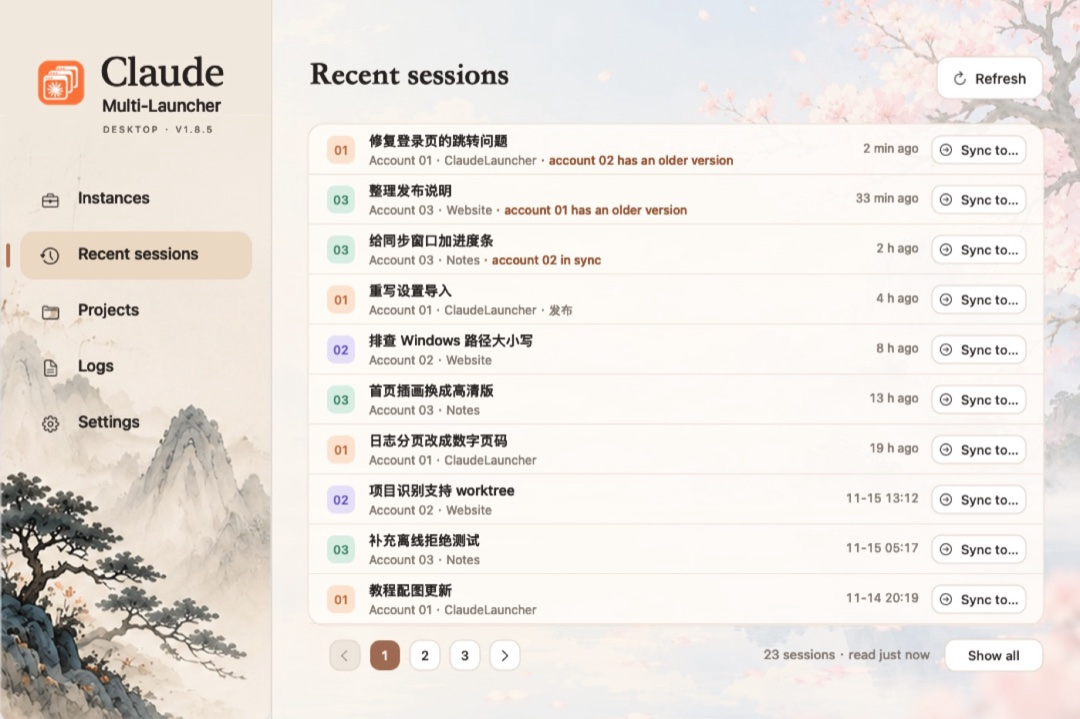
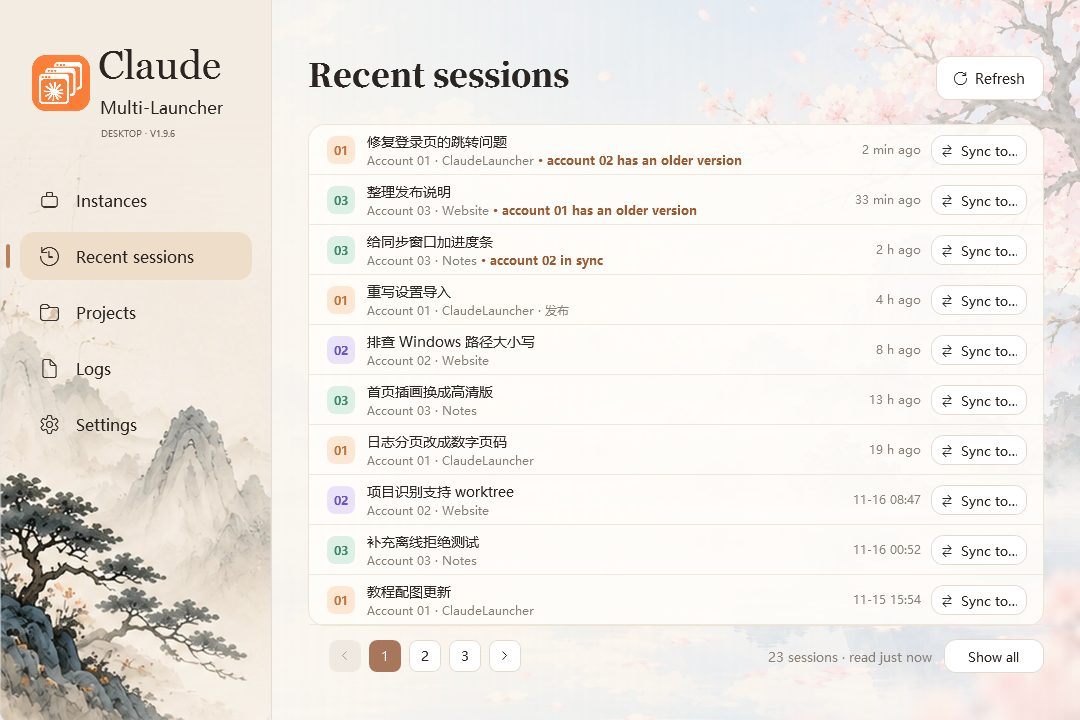
Windows 1.9.6: Recent sessions page replaces usage trend
Brings the Windows side of the macOS 1.8.6 recent-sessions page from
"written but never compiled" to built, tested and checked in the real UI.

Fixes on top of f77ae1b:
- SyncTests still used `now` from the removed UsageTrend checks (CS0103).
- English UI showed Chinese account names, "同步到…" and menu labels:
  rows come from the list template and the target menu is a popup, so
  neither is in the window's logical tree and TranslateTree never reaches
  them. They now translate their own text.
- A page of 10 rows showed a scroll bar: the default ListBox template
  hard-codes 1px padding, leaving room for 9 rows. The list now uses a
  plain ScrollViewer template (still item scrolling and virtualized).

Tests: SyncTests 179, SessionSyncTests 372, TutorialTests 80,
LauncherTests 452, self-test 331 (none fewer than 1.9.5). Added checks
for row rendering, virtualization, no scroll bar, copy labels, refresh
state, English text, restore-to-page reads nothing, VersionAt and
relative-time bounds. Guide pictures regenerated. GUI checked with one
account in Chinese and English; syncing to a second account untested.

diff --git a/windows/tests/SyncTests.cs b/windows/tests/SyncTests.cs
@@ -107,6 +107,48 @@ internal static class SyncTests {
         Check(rows.Zip(rows.Skip(1),(a,b)=>a.Stamp>=b.Stamp).All(x=>x),"newest change first");
         typeof(LauncherUI).GetField("recentPageIndex",flags).SetValue(ui,2); ui.UpdateRecent(); Check(list.Items.Count==3,"last page holds the rest");
         typeof(LauncherUI).GetField("recentAll",flags).SetValue(ui,true); ui.UpdateRecent(); Check(list.Items.Count==23&&pager.Children.Count==0,"show all lists every row without a pager");
+        Check((string)((System.Windows.Controls.Button)get("recentAllButton")).Content=="分页显示","show all offers paging back");
+        // 模板确实生成 50 高的行；“显示全部”只为看得见的行建容器（虚拟化）。
+        var panel=(System.Windows.Controls.Border)get("recentPanel"); panel.Measure(new System.Windows.Size(736,502)); panel.Arrange(new System.Windows.Rect(0,0,736,502));
+        Func<System.Windows.DependencyObject,IEnumerable<System.Windows.DependencyObject>> visuals=null;
+        visuals=node=>new[]{node}.Concat(Enumerable.Range(0,System.Windows.Media.VisualTreeHelper.GetChildrenCount(node)).SelectMany(i=>visuals(System.Windows.Media.VisualTreeHelper.GetChild(node,i))));
+        var first=list.ItemContainerGenerator.ContainerFromIndex(0);
+        Check(first!=null&&visuals(first).OfType<System.Windows.Controls.Canvas>().Any(c=>c.Height==50&&c.Width==734),"row template builds a 50-pixel row");
+        int realized=Enumerable.Range(0,list.Items.Count).Count(i=>list.ItemContainerGenerator.ContainerFromIndex(i)!=null);
+        Check(realized>=10&&realized<23,"show all builds only the visible rows: "+realized);
+        typeof(LauncherUI).GetField("recentAll",flags).SetValue(ui,false); typeof(LauncherUI).GetField("recentPageIndex",flags).SetValue(ui,0); ui.UpdateRecent();
+        var whole=(System.Windows.FrameworkElement)ui.Snapshot(1,new List<Instance>{new Instance{Number=2,ProcessId=111}}); whole.Measure(new System.Windows.Size(1080,720)); whole.Arrange(new System.Windows.Rect(0,0,1080,720)); whole.UpdateLayout();
+        var scroller=visuals(list).OfType<System.Windows.Controls.ScrollViewer>().First();
+        Check(list.Items.Count==10&&scroller.ExtentHeight<=scroller.ViewportHeight&&scroller.ComputedVerticalScrollBarVisibility!=System.Windows.Visibility.Visible,"a page of ten rows fits without a scroll bar: "+scroller.ViewportHeight+"/"+scroller.ExtentHeight);
+        // 每行的文字：来源账号、旧版本／已同步副本、来源分组。
+        var rowOf=typeof(LauncherUI).GetMethod("RecentRow",flags);
+        Func<SyncSessionRow,List<string>> strings=r=>LauncherTests.Children((System.Windows.DependencyObject)rowOf.Invoke(ui,new object[]{r})).SelectMany(d=>{
+            var found=new List<string>{System.Windows.Automation.AutomationProperties.GetName(d)};
+            var block=d as System.Windows.Controls.TextBlock; if(block!=null) found.Add(block.Text);
+            var run=d as System.Windows.Documents.Run; if(run!=null) found.Add(run.Text);
+            var element=d as System.Windows.FrameworkElement; if(element!=null) found.Add(element.ToolTip as string);
+            return found; }).Where(s=>!String.IsNullOrEmpty(s)).ToList();
+        var zh=strings(rows[0]); Check(zh.Contains("最新版本在账号 01")&&zh.Any(s=>s.EndsWith(" · 账号 02 是旧版本")),"row names the newest account and an older copy");
+        Check(strings(rows[2]).Any(s=>s.EndsWith(" · 账号 02 已同步")),"an equal copy reads in sync");
+        Check(strings(rows[3]).Any(s=>s.Contains(" · 发布")),"source sidebar group shown");
+        typeof(LauncherUI).GetField("recentLoading",flags).SetValue(ui,true); ui.UpdateRecent();
+        Check(((System.Windows.Controls.TextBlock)get("recentSummary")).Text=="正在刷新…"&&!((System.Windows.Controls.Button)get("recentRefresh")).IsEnabled
+            &&!LauncherTests.Children((System.Windows.DependencyObject)rowOf.Invoke(ui,new object[]{rows[0]})).OfType<System.Windows.Controls.Button>().Single().IsEnabled,"refreshing keeps rows but disables sync");
+        typeof(LauncherUI).GetField("recentLoading",flags).SetValue(ui,false); ui.UpdateRecent();
+        // 英文界面：行和菜单不在窗口逻辑树里，不能留中文（会话标题和项目名是用户内容，这里用英文）。
+        Appearance.Language=1;
+        try {
+            long stamp=now.AddMinutes(-3).Ticks;
+            var english=new SyncSessionRow { Path="demo",Id="e",Title="Fix login",ProjectPath=@"C:\Users\example\Projects\Website",ProjectName="Website",Modified=now.AddMinutes(-3),Stamp=stamp,Account=1,Linked=true,
+                Versions=new Dictionary<int,SyncVersion>{{1,new SyncVersion{Id="e",Stamp=stamp}},{2,new SyncVersion{Id="f",Stamp=stamp-1}},{3,new SyncVersion{Id="g",Stamp=stamp}}} };
+            ui.UpdateRecent();
+            var shown=strings(english);
+            foreach(System.Windows.Controls.MenuItem item in ui.RecentTargetMenu(english).Items) { var header=item.Header as System.Windows.Controls.TextBlock; shown.Add(header!=null?header.Text:(string)item.Header); }
+            shown.Add(((System.Windows.Controls.TextBlock)get("recentSummary")).Text); shown.Add((string)((System.Windows.Controls.Button)get("recentAllButton")).Content);
+            var chinese=shown.Where(s=>System.Text.RegularExpressions.Regex.IsMatch(s,"[\u3000-\u303f\u4e00-\u9fff\uff00-\uffef]")).ToList();
+            Check(chinese.Count==0,"English recent page has no Chinese: "+String.Join(" | ",chinese));
+            Check(shown.Contains("Newest version is in Account 01")&&shown.Any(s=>s.EndsWith("account 02 has an older version, account 03 in sync"))&&shown.Contains("Account 02 · running, quit it first")&&shown.Contains("23 sessions · read just now"),"English row, menu and summary: "+String.Join(" | ",shown));
+        } finally { Appearance.Language=0; }
         Func<int,List<System.Windows.Controls.MenuItem>> menu=i=>ui.RecentTargetMenu(rows[i]).Items.Cast<System.Windows.Controls.MenuItem>().ToList();
         var m=menu(0); Check(m.Count==4&&!m[0].IsEnabled&&!m[1].IsEnabled&&!m[2].IsEnabled&&m[3].IsEnabled&&(int)m[3].Tag==3,"target menu: source and running disabled, new enabled");
         m=menu(1); Check(m[1].IsEnabled&&!m[3].IsEnabled,"an older copy can be replaced; the source cannot");
@@ -164,7 +206,7 @@ internal static class SyncTests {
             File.WriteAllText(list,"{broken");Check(Projects.Load(list).Count==0&&!File.Exists(list)&&Directory.GetFiles(root,"projects.json.corrupt-*").Length==1,"corrupt project file retained");
             var ui=new LauncherUI(new LauncherSettings(),Path.Combine(root,"ui-settings.json"));
             var flags=BindingFlags.NonPublic|BindingFlags.Instance;
-            var logs=(List<LogEntry>)typeof(LauncherUI).GetField("logs",flags).GetValue(ui);logs.Clear();logs.Add(new LogEntry { At=now,Time="fixture",Level="信息",Instance="系统",Text="fixture" });
+            var logs=(List<LogEntry>)typeof(LauncherUI).GetField("logs",flags).GetValue(ui);logs.Clear();logs.Add(new LogEntry { At=DateTime.UtcNow,Time="fixture",Level="信息",Instance="系统",Text="fixture" });
             string log=Path.Combine(root,"launcher-log.json");File.WriteAllText(log,"[]");string logAlias=log+".hard";Check(CreateHardLink(logAlias,log,IntPtr.Zero),"log hard-link fixture");
             Check(!ui.ClearStoredLogs()&&logs.Count==1&&File.ReadAllText(log)=="[]","failed clear preserves memory and disk");File.Delete(logAlias);Check(ui.ClearStoredLogs()&&logs.Count==0,"successful clear commits disk first");
             var progressA=ui.BuildUpdateProgress("2.0.0");int generationA=ui.BeginUpdateTask();ui.CancelUpdateTask(generationA,progressA,"fixture");

diff --git a/windows/src/LauncherUI.cs b/windows/src/LauncherUI.cs
@@ -1961,8 +1961,13 @@ namespace ClaudeLauncher {
             var itemStyle = new Style(typeof(ListBoxItem));
             itemStyle.Setters.Add(new Setter(Control.TemplateProperty, new ControlTemplate(typeof(ListBoxItem)) { VisualTree = new FrameworkElementFactory(typeof(ContentPresenter)) }));
             itemStyle.Setters.Add(new Setter(UIElement.FocusableProperty, false));
-            recentList = new ListBox { ItemTemplate = new DataTemplate { VisualTree = row }, ItemContainerStyle = itemStyle, BorderThickness = new Thickness(0), Background = Brushes.Transparent, Margin = new Thickness(0, 0, 0, 1) };
-            ScrollViewer.SetHorizontalScrollBarVisibility(recentList, ScrollBarVisibility.Disabled); VirtualizingStackPanel.SetIsVirtualizing(recentList, true);
+            recentList = new ListBox { ItemTemplate = new DataTemplate { VisualTree = row }, ItemContainerStyle = itemStyle, BorderThickness = new Thickness(0), Background = Brushes.Transparent }; // 10 行正好 500，等于面板内高，分页时不出滚动条。
+            // 系统默认模板的外框写死 1 像素内边距，10 行放不下会出滚动条；只留滚动区，按行滚动以便虚拟化。
+            var scroller = new FrameworkElementFactory(typeof(ScrollViewer));
+            scroller.SetValue(ScrollViewer.HorizontalScrollBarVisibilityProperty, ScrollBarVisibility.Disabled); scroller.SetValue(ScrollViewer.CanContentScrollProperty, true); scroller.SetValue(UIElement.FocusableProperty, false);
+            scroller.AppendChild(new FrameworkElementFactory(typeof(ItemsPresenter)));
+            recentList.Template = new ControlTemplate(typeof(ListBox)) { VisualTree = scroller };
+            VirtualizingStackPanel.SetIsVirtualizing(recentList, true);
             AutomationProperties.SetName(recentList, Appearance.Text("最近会话")); AutomationProperties.SetAutomationId(recentList, "RecentList");
             panel.Child = recentList; recentPanel = panel;
             recentEmpty = At(recentPage, T("", 14, "#8A8178", FontWeights.Normal), 76, 320, 656); recentEmpty.TextAlignment = TextAlignment.Center; recentEmpty.TextWrapping = TextWrapping.Wrap;
@@ -2022,13 +2027,14 @@ namespace ClaudeLauncher {
             var row = new Canvas { Width = 734, Height = 50, Background = Brushes.Transparent };
             At(row, new Rectangle { Fill = B("#EFE7DC") }, 0, 49, 734, 1);
             string[] tone = Palette[(session.Account - 1) % 4];
-            string where = Appearance.Text("最新版本在" + DisplayName(session.Account));
+            // 行由列表模板生成、菜单是弹出层，都不在窗口逻辑树里，界面翻译走不到，这里的文字要自己翻译。
+            string where = Appearance.Text("最新版本在%@").Replace("%@", Appearance.Text(DisplayName(session.Account)));
             var badge = At(row, new Border { CornerRadius = new CornerRadius(8), Background = B(tone[0]), ToolTip = where }, 18, 11, 28, 28);
             badge.Child = new TextBlock { Text = Two(session.Account), FontSize = 12, FontWeight = FontWeights.SemiBold, Foreground = B(tone[1]), HorizontalAlignment = HorizontalAlignment.Center, VerticalAlignment = VerticalAlignment.Center };
             AutomationProperties.SetName(badge, where);
             var title = At(row, T(session.Title, 14, Ink, FontWeights.Medium), 58, 6, 450); title.ToolTip = session.Title;
             // 账号、项目、来源侧栏分组，再写关联副本的位置：这一行总是最新的那份。
-            var parts = new List<string> { DisplayName(session.Account), session.ProjectName ?? IOPath.GetFileName(session.ProjectPath) };
+            var parts = new List<string> { Appearance.Text(DisplayName(session.Account)),session.ProjectName ?? IOPath.GetFileName(session.ProjectPath) };
             if (session.Group != null) parts.Add(session.Group);
             var copies = session.Versions.Keys.Where(n => n != session.Account).OrderBy(n => n)
                 .Select(n => Appearance.Text("账号 " + Two(n) + (SessionSync.VersionAt(session, n) == 2 ? " 已同步" : " 是旧版本"))).ToList();
@@ -2037,7 +2043,7 @@ namespace ClaudeLauncher {
             if (copies.Count > 0) detail.Inlines.Add(new System.Windows.Documents.Run(" · " + String.Join(Appearance.Text("，"), copies)) { Foreground = B("#9A5A32"), FontWeight = FontWeights.SemiBold });
             var time = At(row, T(RecentAge(session.Modified, DateTime.Now), 12, "#8A8178", FontWeights.Normal), 512, 16, 100);
             time.TextAlignment = TextAlignment.Right; time.ToolTip = Appearance.Text("最后修改：" + session.Modified.ToString("yyyy-MM-dd HH:mm:ss"));
-            var sync = At(row, Action("同步到…", "Btn", "", 13), 622, 10, 96, 30);
+            var sync = At(row, Action(Appearance.Text("同步到…"), "Btn", "", 13), 622, 10, 96, 30);
             sync.IsEnabled = !recentLoading && !syncingSessions; AutomationProperties.SetName(sync, Appearance.Text("把「" + session.Title + "」同步到其他账号"));
             sync.Click += async delegate {
                 await ScanNow(); // 当前运行状态，和同步窗口一样。
@@ -2052,7 +2058,7 @@ namespace ClaudeLauncher {
             foreach (int n in recentAccounts) {
                 int held = SessionSync.VersionAt(session, n); bool running = instances.Any(x => x.Number == n);
                 string state = held == 2 ? (n == session.Account ? "来源" : "已是最新") : running ? "运行中，请先退出" : held == 1 ? "有更新，替换旧版本" : "新增副本";
-                var item = new MenuItem { Header = new TextBlock { Text = DisplayName(n) + " · " + Appearance.Text(state) }, IsEnabled = held != 2 && !running, Tag = n };
+                var item = new MenuItem { Header = new TextBlock { Text = Appearance.Text(DisplayName(n)) + " · " + Appearance.Text(state) }, IsEnabled = held != 2 && !running, Tag = n };
                 int target = n; item.Click += async delegate { await RecentSync(session, target); };
                 menu.Items.Add(item);
             }

diff --git a/windows/src/Storage.cs b/windows/src/Storage.cs
@@ -252,6 +252,11 @@ namespace ClaudeLauncher {
             const string app = @"""C:\Program Files\WindowsApps\Claude_4.29.0.0_x64__pzs8sxrjxfjjc\app\claude.exe""";
             try {
                 Directory.CreateDirectory(root);
+                // 最近会话页：目标菜单按版本判断可否同步；相对时间的分界与 macOS 相同。
+                var merged = new SyncSessionRow { Stamp = 10, Versions = new Dictionary<int, SyncVersion> { { 1, new SyncVersion { Stamp = 10 } }, { 2, new SyncVersion { Stamp = 9 } }, { 3, new SyncVersion { Stamp = 10 } } } };
+                Check(SessionSync.VersionAt(merged, 1) == 2 && SessionSync.VersionAt(merged, 2) == 1 && SessionSync.VersionAt(merged, 3) == 2 && SessionSync.VersionAt(merged, 4) == 0, "最近会话版本判断");
+                DateTime clock = new DateTime(2026, 11, 17, 12, 0, 0);
+                Check(LauncherUI.RecentAge(clock.AddSeconds(-59), clock) == "刚刚" && LauncherUI.RecentAge(clock.AddSeconds(-60), clock) == "1 分钟前" && LauncherUI.RecentAge(clock.AddHours(-23.9), clock) == "23 小时前" && LauncherUI.RecentAge(clock.AddDays(-1), clock) == "11-16 12:00" && LauncherUI.RecentAge(clock.AddMinutes(5), clock) == "刚刚", "最近会话相对时间");
                 var me = WindowsIdentity.GetCurrent();
                 Check(Storage.OwnedByMe(me.User) && Storage.OwnedByMe(me.Owner) && Storage.OwnedByMe(new SecurityIdentifier(WellKnownSidType.BuiltinAdministratorsSid, null)) && !Storage.OwnedByMe(new SecurityIdentifier(WellKnownSidType.LocalSystemSid, null)) && !Storage.OwnedByMe(null), "所有者判断错误");
                 UpdateChecks(root);

diff --git a/windows/tests/LauncherTests.cs b/windows/tests/LauncherTests.cs
@@ -217,6 +217,12 @@ public static class LauncherTests {
             typeof(LauncherUI).GetMethod("RecordUse", flags).Invoke(alerts, new object[] { 2 });
             var recentReload = new LauncherUI(new LauncherSettings(), preferences); recentReload.Snapshot(0, new List<Instance>());
             Check((string)typeof(LauncherUI).GetMethod("Recent", flags).Invoke(recentReload, new object[] { 2 }) != "—", "Recent usage persists");
+            // 旧值 accounts（原用量趋势页）恢复到最近会话页；启动时恢复不读取会话，只显示加载按钮。
+            LauncherSettings.WriteLastPage(Path.Combine(root, "last-page"), "accounts");
+            var restored = new LauncherUI(new LauncherSettings { RememberPage = true }, preferences);
+            Check((int)typeof(LauncherUI).GetField("page", flags).GetValue(restored) == 1, "Remembered accounts page opens recent sessions");
+            Check(typeof(LauncherUI).GetField("recentSessions", flags).GetValue(restored) == null && ((Button)typeof(LauncherUI).GetField("recentLoad", flags).GetValue(restored)).Visibility == Visibility.Visible, "Restoring to recent sessions reads nothing and offers the load button");
+            File.Delete(Path.Combine(root, "last-page"));
             string file = Path.Combine(root, "CLAUDE.md");
             Check(Handoff.Append(root) && File.ReadAllText(file) == Handoff.Rule, "Handoff creates exact rule");
             Check(!Handoff.Append(root) && File.ReadAllText(file) == Handoff.Rule, "Handoff deduplicates");

diff --git a/windows/src/Updates.cs b/windows/src/Updates.cs
@@ -14,8 +14,8 @@ using System.Text.RegularExpressions;
 using System.Threading;
 using System.Web.Script.Serialization;
 
-[assembly: AssemblyVersion("1.9.5.0")]
-[assembly: AssemblyFileVersion("1.9.5.0")]
+[assembly: AssemblyVersion("1.9.6.0")]
+[assembly: AssemblyFileVersion("1.9.6.0")]
 // csc 直接编译时没有目标框架声明，运行时会退回旧路径规则（拒绝超过 260 字符的路径）；Claude 的缓存目录常超过此长度。
 [assembly: System.Runtime.Versioning.TargetFramework(".NETFramework,Version=v4.8", FrameworkDisplayName = ".NET Framework 4.8")]
 namespace ClaudeLauncher {
@@ -31,8 +31,8 @@ namespace ClaudeLauncher {
     }
 
     public static class Updates {
-        public const string Version = "1.9.5.0";
-        public const string DisplayVersion = "1.9.5";
+        public const string Version = "1.9.6.0";
+        public const string DisplayVersion = "1.9.6";
         public const string GitHubBase = "https://github.com/wyl20020808/ClaudeLauncher/releases/latest/download/";
         public const string ReleasesPage = "https://github.com/wyl20020808/ClaudeLauncher/releases";
         public const long SizeLimit = 50L * 1024 * 1024;

diff --git a/docs/STATUS.md b/docs/STATUS.md
@@ -1,6 +1,17 @@
 # 项目状态
 
-## macOS 1.8.6：最近会话页取代用量趋势页（2026-11-16，两端；macOS 已发布，Windows 未编译）
+## Windows 1.9.6：最近会话页（2026-11-17，dev，未提交、未发布）
+
+- 内容：跟上 macOS 1.8.6 的最近会话页（代码见 `f77ae1b`），发布说明见 [RELEASE-windows-1.9.6](RELEASE-windows-1.9.6.md)，核对结论见 [HANDOFF-windows-recent-sessions](HANDOFF-windows-recent-sessions.md) 文首。
+- 修复（相对 `f77ae1b` 的 Windows 代码）：① `SyncTests` 引用已删除的 `now`，测试程序编译失败；② 英文界面下行内和菜单的账号名、“同步到…”按钮仍是中文（行和菜单不在窗口逻辑树里，整体翻译走不到）；③ 一页 10 行时出滚动条（默认 ListBox 模板写死 1 像素内边距）。②③ 都先写测试复现失败再修。
+- 补测试：模板生成 50 高的行、显示全部只生成可见行、10 行无滚动条、副本说明与分组、刷新中停用同步、英文界面无中文；启动恢复到最近会话页（旧值 `accounts`）不读取；自检加 `VersionAt` 与相对时间分界。
+- 自检（`build.ps1`，本机）：LauncherTests 452、SyncTests 179、SessionSyncTests 372、TutorialTests 80、自检 331，均不少于 1.9.5（452／175／372／80／330，同机重跑）；`test-install.ps1` 3 个场景通过。编译警告 2 条与 1.9.5 相同。
+- 离屏 UI：`preview-ui.ps1` 生成 `recent.png`、`recent-unloaded.png`，面板 36,124,736×502、行高 50、刷新 664,56、页码 y640、显示全部 672,639，与 macOS 一致；`guide-recent.{zh,en}.jpg` 用 `UiPreview.exe --guide` 重新生成（英文配图示例标题为中文，与 macOS 相同）。
+- GUI 手动测试（2026-11-17，开发版 `artifacts\bin\ClaudeLauncher.exe`，本机只有账号 01）：① 通过——点侧栏“最近会话”读取 54 条，当前正在用的会话排第一、写“刚刚”，页码 `1 2 … 6`，“显示全部”可滚动、按钮变“分页显示”；行内“同步到…”菜单为标题行加“gshh · 01 · 来源”。英文界面（临时改启动器自己的 `settings.json` 语言，看完恢复原文件）：行、摘要“54 sessions · read just now”、“Sync to…”、菜单“Sync to (the target must have quit normally)”“gshh · 01 · source”均为英文，会话标题是用户原文。`settings.json.usageTrend` 修改时间仍为 10-31，未被读写。② 同步到另一账号、③ 运行中／有更新／替换进回收站：**未验证**（用户没有其他账号，2026-11-17 决定跳过）。观察：启动器窗口不在前台时点“同步到…”，菜单要等窗口回到前台才显示。
+- 开发版检查更新时日志记 `update_select version=1.9.5`，随后 `IsNewer` 判断不提示，属正常。测试中开发版以“关闭到托盘”方式隐藏，最后结束了这个开发版进程（只此一个，非 Claude）。
+- 版本号 1.9.6（程序集 1.9.6.0）；`updates/public/*.json` 待发布时生成。
+
+## macOS 1.8.6：最近会话页取代用量趋势页（2026-11-16，两端；macOS 已发布，Windows 见上方 1.9.6）
 
 - 发布（用户 2026-11-17 要求）：`macos-v1.8.6`（目标 dev `f77ae1b`，未合并 main），版本号 1.8.6（build 37），发布说明见 [RELEASE-macos-1.8.6](RELEASE-macos-1.8.6.md)。提交前变基到远端 Windows 1.9.5（`18b272f`）之后，STATUS 与使用说明冲突两边都保留。固定证书构建，arm64／x86_64 `--self-test` 与 `--ui-self-test` 通过，`scripts/publish-macos.sh --dry-run` 通过后正式运行，草稿 API 核对、转 Latest、latest/download 复核全部通过；DMG `ClaudeLauncher-1.8.6.dmg`（9076958 字节，SHA-256 `61166109…ffafff60`），Windows 文件沿用 `ClaudeLauncherSetup-1.9.5.exe`。/Applications 中的安装版需用户自行用新 DMG 更新。
 

diff --git a/windows/docs/USER_GUIDE.md b/windows/docs/USER_GUIDE.md
@@ -1,5 +1,12 @@
 # Claude 多开启动器 1.9 使用说明（Windows）
 
+## 1.9.6 最近会话
+
+- 侧栏第二页“用量趋势”换成“最近会话”：各账号的会话按修改时间排在一起，最新的在最上面；每行显示账号、标题、项目、来源分组和时间，已同步过的副本写在说明末尾。每页 10 条，可“显示全部”。
+- 点一行的“同步到…”，选目标账号，就进入和同步窗口相同的预览和确认；运行中的账号和已是最新的账号不能选，目标须先正常退出。替换下来的旧版本进回收站，第一条消息由你发送。
+- 只在你点进这一页、点“刷新”或从这一页同步完成后读取；启动时恢复到这一页只显示“加载最近会话”按钮。不读对话正文，结果不保存。
+- 用量趋势停止记录，以前的趋势数据保留不动；用量圆环和用量提醒不变。下方“用量趋势”相关的旧说明不再适用。
+
 ## 1.9.4 修复
 
 - 账号的 Code 配置里，skills 如果是用目录联接（`mklink /J`）装的、指向 `~/.claude/skills`，启动时不再报“账号存储隔离检查未通过：仅支持普通符号链接”。联接指向账号数据、用户主目录等受保护位置时仍会提示。
@@ -112,9 +119,9 @@
 
 背景插画已重新生成，使用1960×310无损PNG横幅，比例与卡片一致，整卡显示图案。限额圆环紧邻名字右侧、垂直居中，圆内透明。左侧信息区使用从100%不透明向右渐变到0%的白底，右侧展示清晰插画；有无用量都保留相同插画效果。
 
-## 用量趋势
+## 最近会话
 
-- 侧栏“用量趋势”直接显示各账号近七天的用量曲线、当前观察值和轮换建议。
+- 侧栏“最近会话”列出各账号的会话（1.9.6 起取代原“用量趋势”页），说明见文首“1.9.6 最近会话”。
 - 原账号表格、搜索筛选、别名编辑、路径批量复制及配置同步入口已移除。已有别名继续用于卡片显示。
 - “系统设置 → 关于 → 查看教程”可重新播放引导或阅读文档。
 
@@ -182,7 +189,7 @@ Windows 11 标题栏和窗口边框随启动器深浅主题统一配色。
 ## Windows 1.7.16 功能同步待验收版
 
 设置切换立即保存。通知分类可选择五小时用量提醒（关闭／70／80／90，默认 80）并启用全局快捷键。用量只来自你主动查看时已显示的本地界面，不代表实时剩余额度；提醒只说明该账号的用量，不推荐其他账号（1.9.2 起）。
-实例卡片可直接启动或打开账号，用量趋势页独立展示历史曲线。窗口内 Ctrl+1～9、Ctrl+0 打开已有账号；全局 Ctrl+Alt+1～0 默认关闭，冲突会提示。
+实例卡片可直接启动或打开账号，最近会话页列出各账号的会话（1.9.6 前为用量趋势页）。窗口内 Ctrl+1～9、Ctrl+0 打开已有账号；全局 Ctrl+Alt+1～0 默认关闭，冲突会提示。
 数据与存储的「导入设置」先显示变化，确认才生效；无效项保留当前设置，不导入账号或凭据。
 项目管理可添加本地项目目录。「···」提供追加 CLAUDE.md 交接规则、复制写 HANDOFF.md 指令、交接给其他账号。只追加规则；已有标记不重复写入。接手指令只复制到剪贴板，请自行粘贴发送。同一项目请轮流使用，启动器不负责文件冲突或自动发送消息。
 关闭 Claude 后卡片保留上次用量并标注「Claude 未运行 · 上次记录」。提醒按账号持久去重，重启不会重复；看到低于阈值后重新启用。

diff --git a/windows/README.md b/windows/README.md
@@ -1,3 +1,7 @@
+## Windows 1.9.6（2026-11-17）
+
+侧栏“用量趋势”页换成“最近会话”（与 macOS 1.8.6 相同）：各账号的会话按修改时间排在一起，每页 10 条可显示全部，行内“同步到…”选目标后进入同步窗口同一预览和确认。只在点进页面、点“刷新”或从这一页同步完成后读取，启动恢复到这一页不读取；结果只在内存。用量趋势停止记录，旧的 `settings.json.usageTrend` 不读不写不清除。见 [发布说明](../docs/RELEASE-windows-1.9.6.md)。
+
 ## Windows 1.9.5（2026-11-16）
 
 修复账号目录里有链接（如 `ClaudeCodeConfigskills` 的目录联接）时删除账号报“账号内容含链接”：内部链接不再跟随、随账号一起移入回收站，链接指向的内容不动。见 [发布说明](../docs/RELEASE-windows-1.9.5.md)。
@@ -129,7 +133,7 @@ powershell -NoProfile -ExecutionPolicy Bypass -File scripts/setup.ps1
 - 先卸载再安装（SPEC）：用固定 AppId 查当前用户的卸载项；已安装时提示“检测到已安装 x.y.z，将先卸载再安装新版”。随后按 PID 核对、对旧安装目录中运行的启动器窗口发送正常关闭（WM_CLOSE，不结束进程，不涉及 Claude），等待退出；再静默运行旧版卸载程序，等卸载项和旧卸载程序都消失后才安装新版。启动器无法正常关闭（如删除未完成）或旧版卸载失败、超时，都中止安装并提示原因。
 - 卸载只删除安装的 `ClaudeLauncher.exe`、卸载程序以及自建更新在安装目录内留下的 `.previous-*`、`.new-*`、`.failed-*` 文件。**不删除任何账号数据目录**（`%APPDATA%\Claude-*`、`%LOCALAPPDATA%\Claude-Data`、商店版 `Packages\Claude_*`），也不删除启动器日志、登录保护和删除状态目录 `%LOCALAPPDATA%\Claude-MultiLauncher`。
 - 升级覆盖安装时，Inno Setup 只会请求关闭占用本程序文件的进程（启动器本身），不涉及 Claude。
-- 版本号 1.9.5（程序集 1.9.5.0，见 `src/Updates.cs`）；与 macOS 各自递增，不要求一致。
+- 版本号 1.9.6（程序集 1.9.6.0，见 `src/Updates.cs`）；与 macOS 各自递增，不要求一致。
 - 安装向导为简体中文：`installer/ChineseSimplified.isl` 取自 Inno Setup 官方源码 `Files/Languages/ChineseSimplified.isl`（6.5.0+；6.7.3 安装包未自带）。
 - **代码签名：未签名。** 本机没有代码签名证书，安装程序和 `ClaudeLauncher.exe` 都没有 Authenticode 签名。客户首次运行会看到 SmartScreen“Windows 已保护你的电脑”，需点“更多信息 → 仍要运行”；部分杀毒软件可能更谨慎。需要正式证书（OV/EV）后在打包时对 exe 和 setup.exe 签名，此项待用户决定。
 - 应用内更新运行 Setup 的参数 `/SILENT /SUPPRESSMSGBOXES /NORESTART /RELAUNCH=1`：只显示中文进度窗口（“正在卸载旧版… / 正在安装”），不显示向导页和确认框；`/RELAUNCH=1` 仅在静默模式下让 Setup 装好后重新打开启动器。1.7.1 及更早版本用 `/VERYSILENT`，不显示任何窗口。

diff --git a/docs/HANDOFF-windows-recent-sessions.md b/docs/HANDOFF-windows-recent-sessions.md
@@ -1,5 +1,24 @@
 # Windows 交接：最近会话页（2026-11-16，dev，未提交）
 
+## Windows 实测结论（2026-11-17，Windows 1.9.6）
+
+以实际编译和运行为准，下面原交接中的判断逐项核对如下：
+
+- 编译：GUI 程序一次通过；测试程序 1 处错误——`tests/SyncTests.cs` 删 UsageTrend 单元检查时把 `DateTime now` 一并删了，后面日志夹具仍用 `now`（CS0103），改为 `DateTime.UtcNow`。
+- `RowBuilder`（`FrameworkElementFactory` + `Binding(".")` + 转换器）：可用，离屏排版确实生成 50 高的行；“显示全部”23 行只生成看得见的容器（已加测试）。
+- `Action(...)` 重载：调用一致，无问题。
+- `named(...)` 计数 1：实测正确（快照模式不读会话，名字只在实例卡片上）。
+- 拼接后再翻译：`账号 NN 已同步`／`是旧版本`、`共 N 条 · X读取`、`最后修改：…`、`把「…」同步到其他账号` 都能匹配词典。**但**行由列表模板生成、目标菜单是弹出层，都不在窗口逻辑树里，界面整体翻译（`TranslateTree`）走不到，英文界面会显示 `Newest version is in 账号 01`、`账号 01 · Website`、`同步到…`、`账号 02 · running…`。已改为生成时自行翻译账号名和按钮文字，并加英文界面无中文的测试（撤掉修复时该测试失败）。
+- 新发现：一页 10 行时右侧出现滚动条。系统默认 ListBox 模板外框写死 1 像素内边距，可视 498 < 500，按行滚动只能完整放下 9 行。改为只含滚动区的模板（仍按行滚动、虚拟化），并加整页排版测试（修复前 9/10 失败）。
+- 测试数：SyncTests 179（1.9.5 为 175）、SessionSyncTests 372（同机 1.9.5 也是 372，联接用例因重定向信任跳过）、TutorialTests 80、LauncherTests 452（新增启动恢复到最近会话页不读取等 2 项）、自检 331（新增 `VersionAt` 与相对时间分界）。
+- 布局（`recent.png`，侧栏宽 272）：面板 36,124,736×502、行高 50、刷新 664,56、页码 y640、显示全部 672,639，与 macOS 一致；行内“同步到…”距面板右缘 16，与 macOS `width-112` 一致。
+- 配图：`guide-recent.{zh,en}.jpg` 已用 `UiPreview.exe --guide` 重新生成（V1.9.6）。英文配图里的示例会话标题是中文，与 macOS 英文配图相同（示例数据只有中文）。
+- 手动测试：第 1 项和英文界面在单账号下通过；第 2、3 项需要第二个账号，未验证。详见 [STATUS](STATUS.md) 的 Windows 1.9.6 一节。
+
+---
+
+以下为 2026-11-16 原交接内容，保留原判断。
+
 规格见 [SPEC](SPEC.md) 文首「最近会话页取代用量趋势页」，读取范围见 AGENTS.md「最近会话例外」。macOS 已实现并通过自检；Windows 代码和测试已写好，但**这台 Mac 没有 Windows 工具链，未编译、未运行任何测试**。
 
 ## 已改的文件

diff --git a/docs/RELEASE-windows-1.9.6.md b/docs/RELEASE-windows-1.9.6.md
@@ -1,0 +1,15 @@
+# Windows 1.9.6
+
+侧栏“用量趋势”页换成“最近会话”，与 macOS 1.8.6 相同（规格见 SPEC 文首「最近会话页取代用量趋势页」）。
+
+- 各账号在公共清单项目下未归档的会话按最后修改时间排在一起，最新的在最上面。每行显示账号、标题、项目、来源分组和时间；同步过的几份合并为一行（最新的那份），说明末尾写“账号 NN 已同步”或“账号 NN 是旧版本”。每页 10 条，可“显示全部”（只生成看得见的行）。
+- 行内“同步到…”：先重新扫描运行状态，菜单里每个账号写明来源／已是最新／运行中，请先退出／有更新，替换旧版本／新增副本；来源、已是最新和运行中的不可选。选中后进入同步窗口同一流程：确定写入位置、生成清理副本、预览、确认、写入；旧版本进回收站，第一条消息由你发送。从这一页实际写入后重新读取。
+- 读取时机：点侧栏进入、点“刷新”、或从这一页完成一次同步后。启动时恢复到这一页不读取，只显示“加载最近会话”；没有定时器。读取范围与同步窗口相同，结果只在内存，不写偏好、不进诊断报告。
+- 用量趋势停止记录，页面、建议条、圆环悬停的“历史记录”回退移除；旧的 `settings.json.usageTrend` 不读、不写、不清除。用量圆环和用量提醒不变。
+- 同步窗口拆出共用的 `ReadSessions`／`SyncSelected`，写入代码不变，同步窗口行为不变。
+
+不新增 Claude／Anthropic 访问，不新增网络入口，不读凭据、Cookie 或组织标识（同步时确定写入位置的组织读取规则不变）。程序和安装包仍未代码签名（Authenticode）。
+
+验证：`build.ps1` 通过——LauncherTests 452、SyncTests 179、SessionSyncTests 372、TutorialTests 80、自检 331；`test-install.ps1` 3 个场景通过；离屏截图 `recent.png`、`recent-unloaded.png` 与 macOS 布局逐项一致；教程配图重新生成。
+真实界面（单账号）：列表、排序、“刚刚”、分页、显示全部、目标菜单，中英文界面都看过。
+未验证：从这一页实际同步到另一个账号、目标运行中／有更新／替换进回收站（本机只有一个账号）。

diff --git a/docs/SPEC.md b/docs/SPEC.md
@@ -1,6 +1,8 @@
 # 跨平台行为规格
 
-## [两端] 最近会话页取代用量趋势页（2026-11-16 用户要求，dev，未发布；Windows 代码未编译）
+## [两端] 最近会话页取代用量趋势页（2026-11-16 用户要求；macOS 1.8.6 已发布，Windows 1.9.6）
+
+- [Windows] 实现说明（1.9.6）：行由列表模板按需生成、目标菜单是弹出层，都不在窗口逻辑树里，界面整体翻译走不到，行内和菜单文字（含账号名“账号 NN”）在生成时自行翻译；列表不用系统默认模板（其外框写死 1 像素内边距，10 行放不下会出滚动条），一页 10 行正好填满面板。
 
 - 侧栏第二项“用量趋势”改为“最近会话”（页面序号仍为 1，`startPage`／`lastLauncherPage` 旧值自然进入新页）。读取范围见 AGENTS.md「最近会话例外」：与同步窗口相同的字段，结果只在内存，日志只记条数，不进入诊断报告。
 - 读取时机：用户点侧栏“最近会话”、点页内“刷新”，或从这一页完成一次同步后。启动时恢复到这一页不读，显示“加载最近会话”按钮；没有定时器。读取在后台进行，已有结果在刷新期间继续显示，摘要写“正在刷新…”；读取中各行“同步到…”停用。
